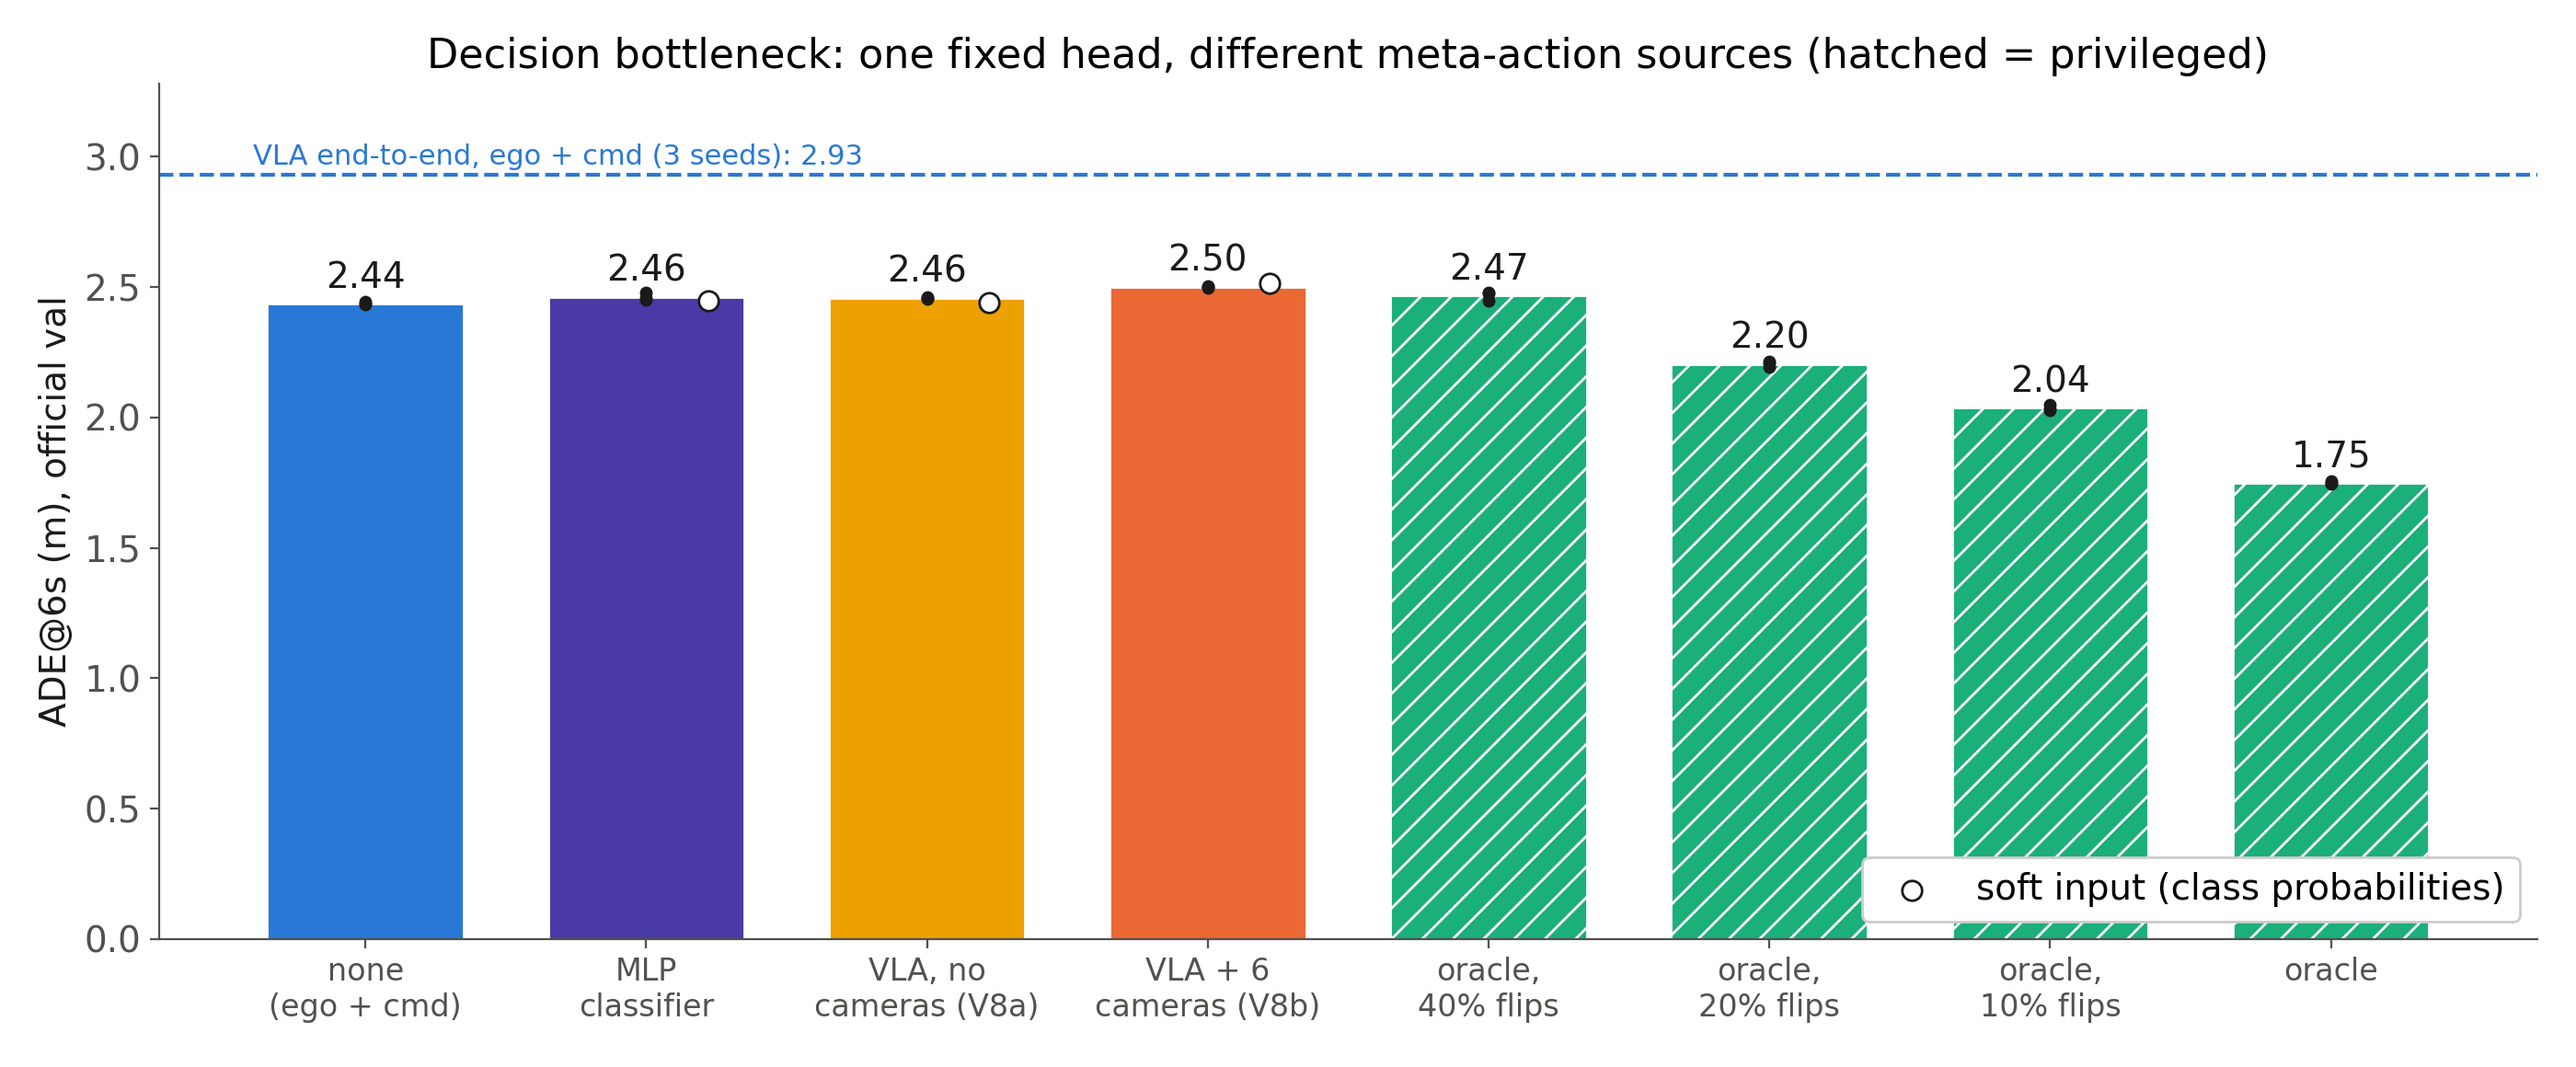
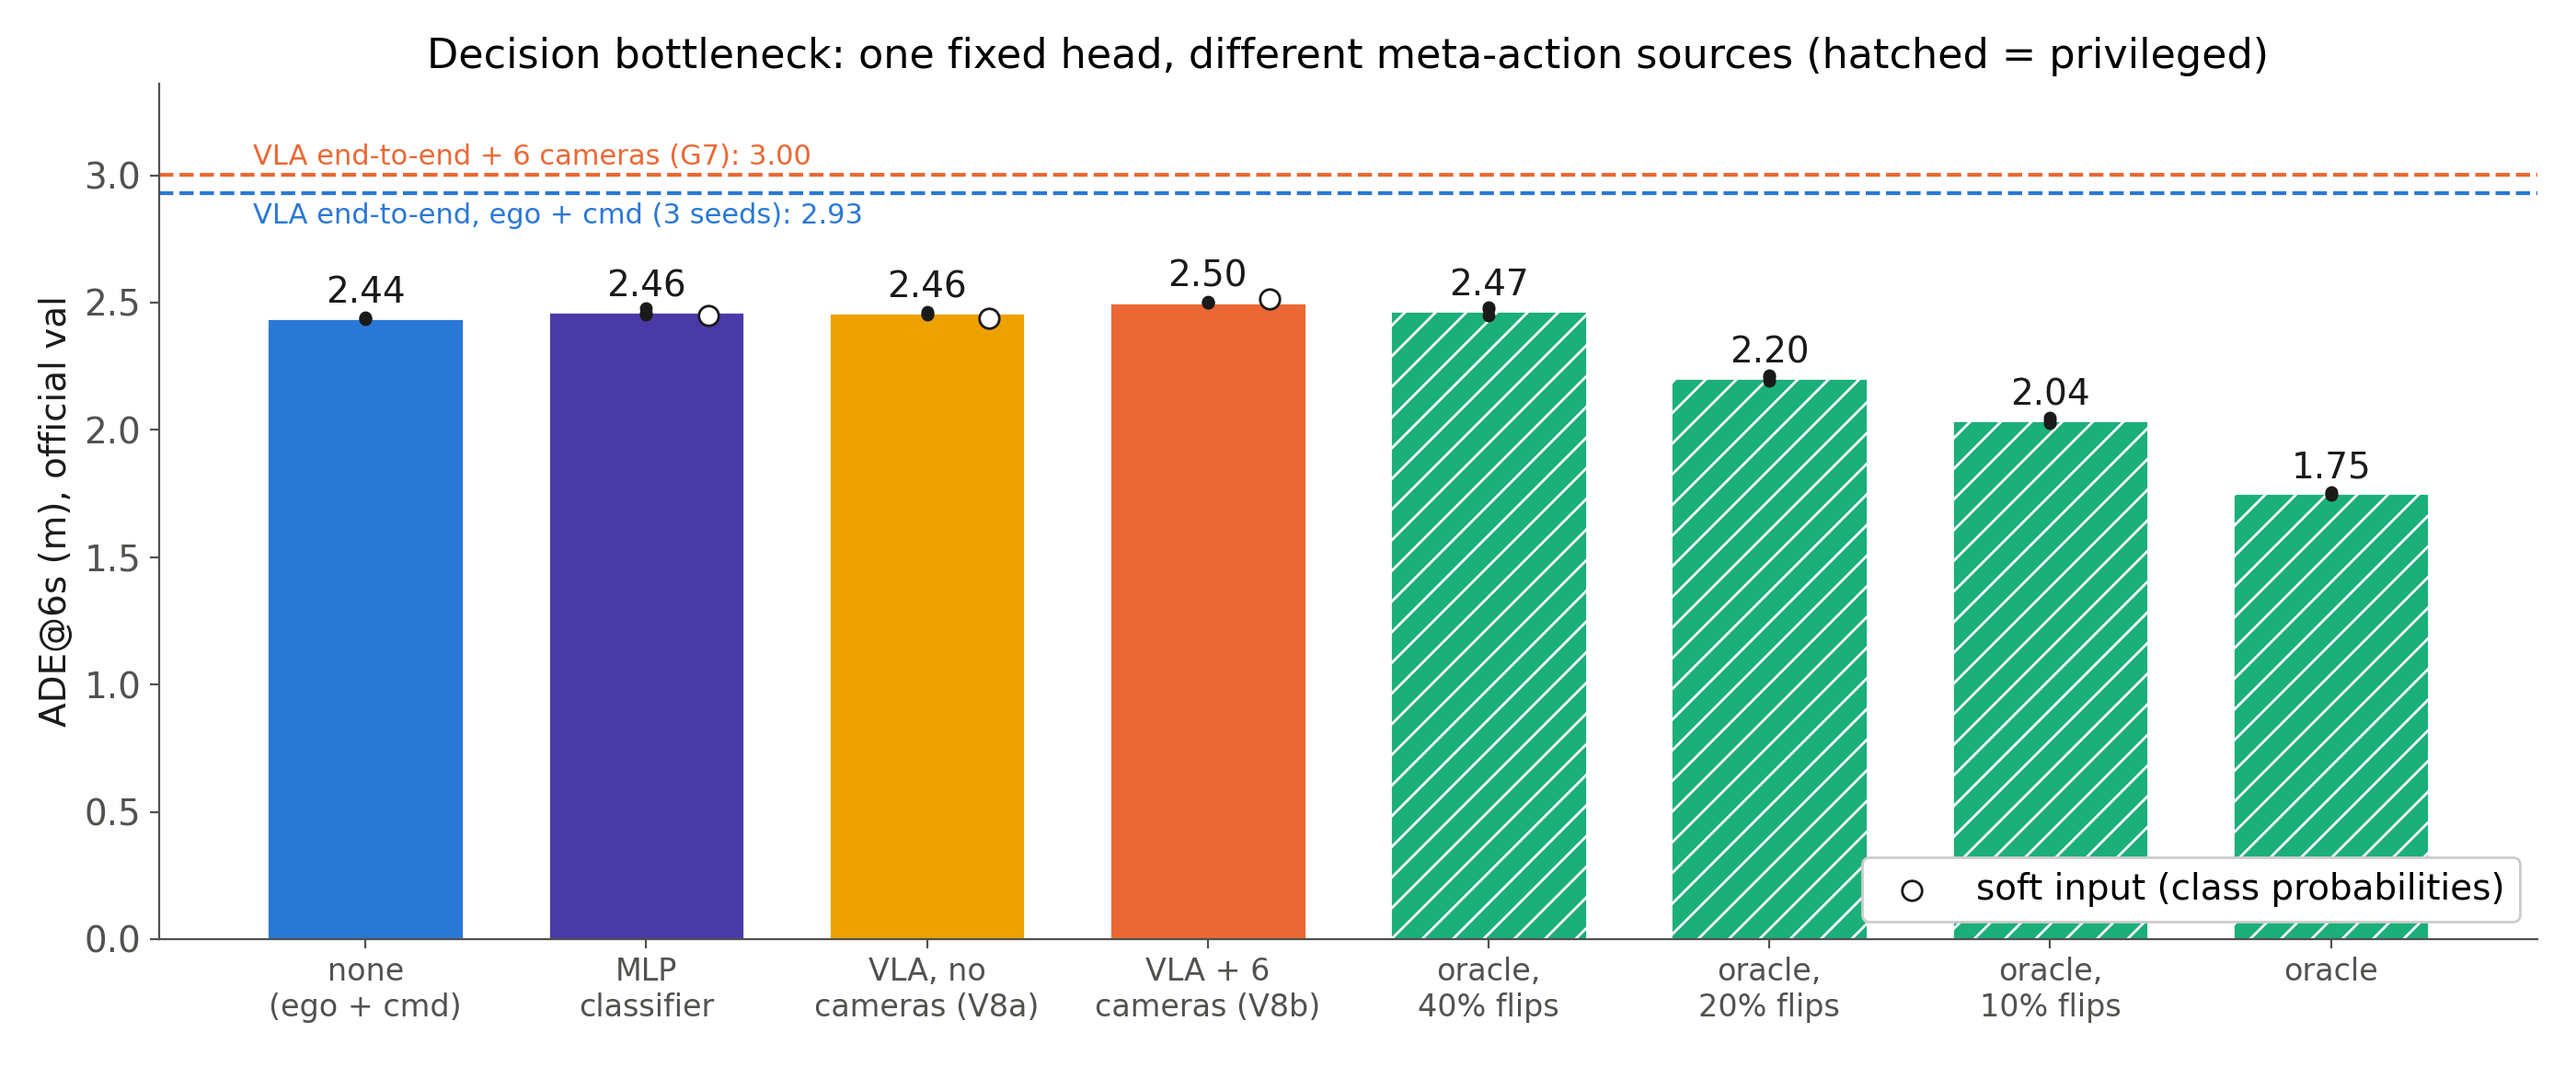
[q2] f8 with G7 and 3-seed end-to-end reference lines
Claude-Session: https://claude.ai/code/session_01WnfWD6fBCwQz2Hoks5ZJFK

diff --git a/Alpamayo/code/w1/figs.py b/Alpamayo/code/w1/figs.py
@@ -271,11 +271,11 @@ def f8():
         ref = [('VLA end-to-end, ego + cmd (3 seeds)', [('A3', 'A3', 0.0), ('G6C_s123', 'G6C_s123', 0.0),
                                                          ('G6C_s2024', 'G6C_s2024', 0.0)], BLUE),
                ('VLA end-to-end + 6 cameras (G7)', [('G7', 'G7', 0.0)], ORANGE)]
-        for nm, ks, c in ref:
+        for j, (nm, ks, c) in enumerate(ref):
             if all(k in Q for k in ks):
                 y = np.mean([np.nanmean(Q[k]['ade']) for k in ks]); top = max(top, y * 1.12)
                 ax.axhline(y, color=c, ls='--', lw=1.5)
-                ax.text(-0.4, y + 0.04, f'{nm}: {y:.2f}', color=c, ha='left', fontsize=11)
+                ax.text(-0.4, y - 0.12 if j == 0 else y + 0.04, f'{nm}: {y:.2f}', color=c, ha='left', fontsize=11)
     ax.set_ylim(0, top)
     ax.set_ylabel('ADE@6s (m), official val')
     ax.set_title('Decision bottleneck: one fixed head, different meta-action sources (hatched = privileged)')
